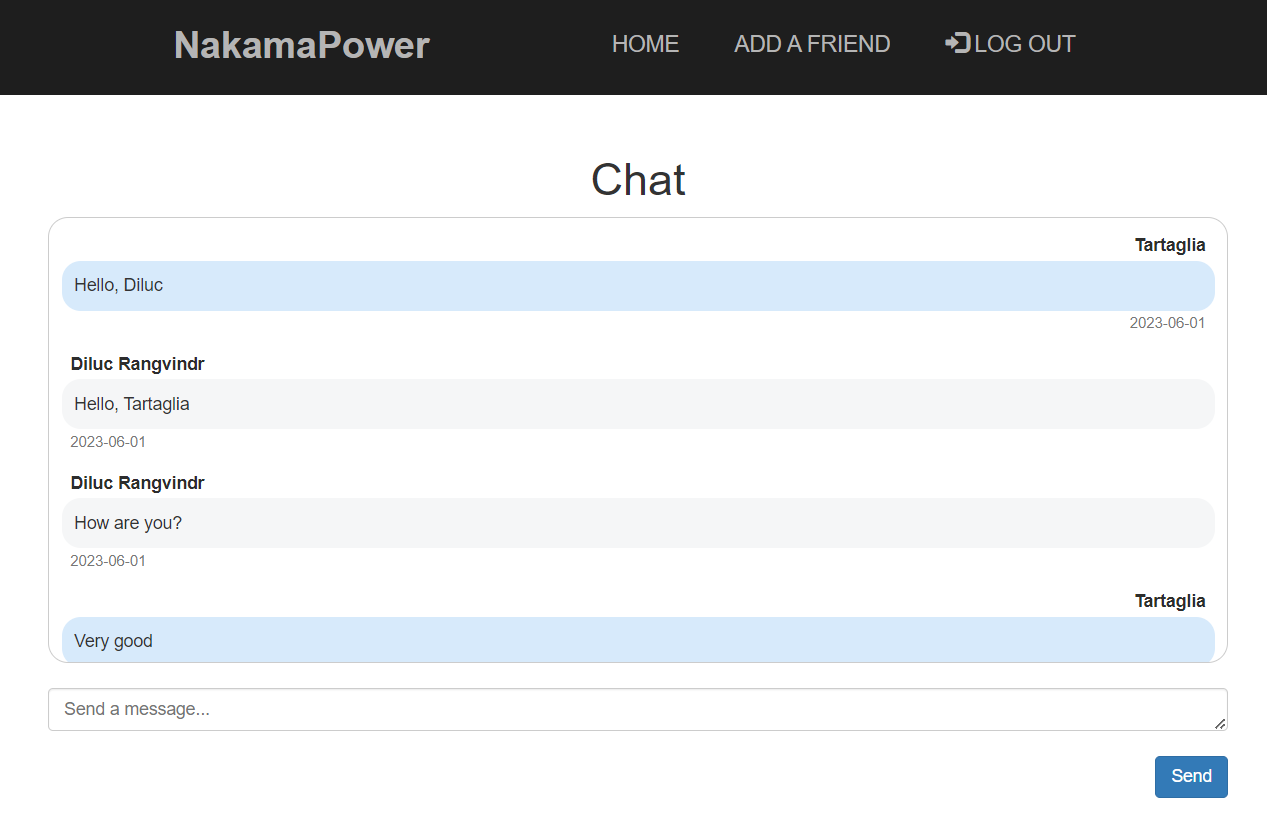
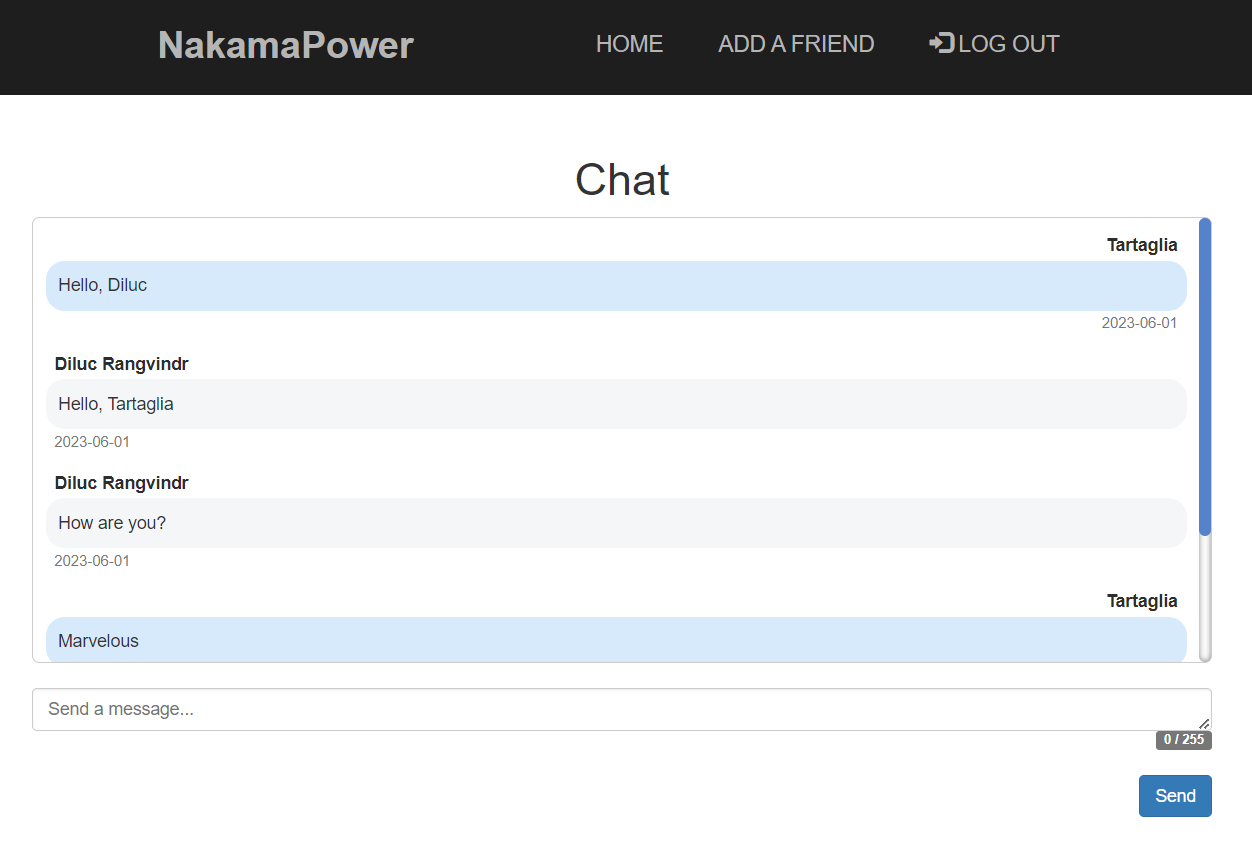
feat(docs, main.css, chat.html): change style of chat's scrollbar, add character control to textarea

diff --git a/src/main/resources/templates/chat.html b/src/main/resources/templates/chat.html
@@ -45,14 +45,30 @@
             <input type="number" class="form-input" id="inputReceptor" th:if="${currentUser.id == friendship.idUser.id}" th:value="${friendship.idFriend.id}" hidden readonly>
             <input type="number" class="form-input" id="inputReceptor" th:unless="${currentUser.id == friendship.idUser.id}" th:value="${friendship.idUser.id}" hidden readonly>
             
-            <div class="sendMessage">
+            <div class="sendMessageArea">
                 <textarea type="text" class="form-input" id="inputMessage" placeholder="Send a message..." rows="4"></textarea>
-                <br>
+                <span class="pull-right label label-default" id="count_message"></span>
+      	        <br>
                 <button type="submit" id="sendButton" class="button">Send</button>
             </div>
         </main>
 
         <script>
+            var text_max = 255;
+            $('#count_message').html('0 / ' + text_max );
+
+            $('#inputMessage').keyup(function() {
+                var text_length = $('#inputMessage').val().length;
+                // var text_remaining = text_max - text_length;
+                
+                $('#count_message').html(text_length + ' / ' + text_max);
+                if (text_length > text_max) {
+                    $('#count_message').addClass('label-danger');
+                } else {
+                    $('#count_message').removeClass('label-danger');
+                }
+            });
+
             $(document).ready(function() {
                 $('#sendButton').click(function() {
                     var idChat = $('#inputIdChat').val();
@@ -64,12 +80,23 @@
                         alert('Please enter valid data.');
                         return;
                     }
+
+                    var message_text_length = $('#inputMessage').val().length;
+                    if (message_text_length > text_max) {
+                        $('#count_message').addClass('shake');
+                        setTimeout(function() {
+                            $('#count_message').removeClass('shake');
+                        }, 1000);
+                        return;
+                    }
+
                     var data = {
                         "chat": idChat,
                         "sender": sender,
                         "receptor": receptor,
                         "text": message
                     };
+
                     $.ajax({
                         url: '/messages/create',
                         type: 'POST',

diff --git a/src/main/resources/static/css/main.css b/src/main/resources/static/css/main.css
@@ -172,9 +172,27 @@ small {
     padding: 10px 10px;
     /* max-width: 70%; */
     border: 1px solid #ccc;
-    border-radius: 16px;
+    border-radius: 6px;
     overflow-y: scroll;
     height: 50vh;
+}
+
+.chat::-webkit-scrollbar {
+    width: 10px;
+}
+
+.chat::-webkit-scrollbar-track {
+    box-shadow: inset 0 0 5px rgb(128, 128, 128); 
+    border-radius: 6px;
+}
+
+.chat::-webkit-scrollbar-thumb {
+    background: rgb(86, 130, 201); 
+    border-radius: 10px;
+}
+
+.chat::-webkit-scrollbar-thumb:hover {
+    background: rgb(50, 95, 167); 
 }
 
 .chatMessage {
@@ -233,9 +251,10 @@ small {
 
 textarea {
     resize: vertical;
+    min-height: 34px;
 }
 
-.sendMessage {
+.sendMessageArea {
     display: flex;
     flex-direction: column;
     align-items: flex-end;
